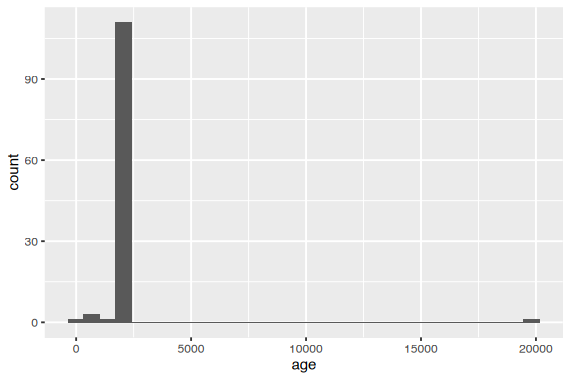
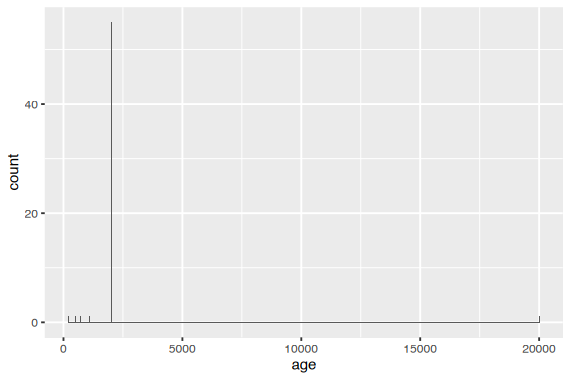
d

diff --git a/docs/contents/cleaning.html b/docs/contents/cleaning.html
@@ -786,12 +786,12 @@ Note
 <h2 class="anchored" data-anchor-id="이상치-발견">이상치 발견</h2>
 <p>Outliers을 찾는 방법은 다양하고 복잡한 테크닉을 요하기도 하는데, 앞으로 점차 익히게 될 것임</p>
 <p>예를 들어, <code>age</code>에 잘못 기입한 경우가 있는데</p>
-<div id="cell-34" class="cell" data-vscode="{&quot;languageId&quot;:&quot;r&quot;}" data-execution_count="89">
+<div id="cell-34" class="cell" data-vscode="{&quot;languageId&quot;:&quot;r&quot;}" data-execution_count="119">
 <div class="sourceCode cell-code" id="cb33"><pre class="sourceCode r code-with-copy"><code class="sourceCode r"><span id="cb33-1"><a href="#cb33-1" aria-hidden="true" tabindex="-1"></a>helping <span class="ot">&lt;-</span> <span class="fu">read_csv</span>(<span class="st">"data/altruism.csv"</span>)</span>
 <span id="cb33-2"><a href="#cb33-2" aria-hidden="true" tabindex="-1"></a></span>
 <span id="cb33-3"><a href="#cb33-3" aria-hidden="true" tabindex="-1"></a>helping <span class="sc">|&gt;</span></span>
 <span id="cb33-4"><a href="#cb33-4" aria-hidden="true" tabindex="-1"></a>    <span class="fu">ggplot</span>(<span class="fu">aes</span>(<span class="at">x =</span> age)) <span class="sc">+</span></span>
-<span id="cb33-5"><a href="#cb33-5" aria-hidden="true" tabindex="-1"></a>    <span class="fu">geom_histogram</span>()</span></code><button title="Copy to Clipboard" class="code-copy-button"><i class="bi"></i></button></pre></div>
+<span id="cb33-5"><a href="#cb33-5" aria-hidden="true" tabindex="-1"></a>    <span class="fu">geom_histogram</span>(<span class="at">binwidth =</span> <span class="dv">1</span>)</span></code><button title="Copy to Clipboard" class="code-copy-button"><i class="bi"></i></button></pre></div>
 <div class="cell-output cell-output-display">
 <div>
 <figure class="figure">
@@ -802,7 +802,7 @@ Note
 </div>
 <p><code>age</code>는 출생년도를 물어봤으나 다른 답을 한 경우들이 있음<br>
 값은 2002 ~ 2004 사이가 정상이므로 <code>filter()</code>를 써서 확인해 볼 수 있음</p>
-<div id="cell-36" class="cell" data-vscode="{&quot;languageId&quot;:&quot;r&quot;}" data-execution_count="90">
+<div id="cell-36" class="cell" data-vscode="{&quot;languageId&quot;:&quot;r&quot;}" data-execution_count="120">
 <div class="sourceCode cell-code" id="cb34"><pre class="sourceCode r code-with-copy"><code class="sourceCode r"><span id="cb34-1"><a href="#cb34-1" aria-hidden="true" tabindex="-1"></a>helping <span class="sc">|&gt;</span></span>
 <span id="cb34-2"><a href="#cb34-2" aria-hidden="true" tabindex="-1"></a>    <span class="fu">filter</span>(age <span class="sc">&lt;</span> <span class="dv">2002</span> <span class="sc">|</span> age <span class="sc">&gt;</span> <span class="dv">2004</span>) <span class="sc">|&gt;</span></span>
 <span id="cb34-3"><a href="#cb34-3" aria-hidden="true" tabindex="-1"></a>    <span class="fu">print</span>()</span></code><button title="Copy to Clipboard" class="code-copy-button"><i class="bi"></i></button></pre></div>
@@ -820,46 +820,122 @@ Note
 # i 1 more variable: emp_q26 &lt;dbl&gt;</code></pre>
 </div>
 </div>
+<p>값을 수정</p>
+<div id="cell-38" class="cell" data-vscode="{&quot;languageId&quot;:&quot;r&quot;}" data-execution_count="121">
+<div class="sourceCode cell-code" id="cb36"><pre class="sourceCode r code-with-copy"><code class="sourceCode r"><span id="cb36-1"><a href="#cb36-1" aria-hidden="true" tabindex="-1"></a><span class="co"># 이상치에 대한 id를 우선 추출</span></span>
+<span id="cb36-2"><a href="#cb36-2" aria-hidden="true" tabindex="-1"></a>ids_anomaly <span class="ot">=</span> helping <span class="sc">|&gt;</span></span>
+<span id="cb36-3"><a href="#cb36-3" aria-hidden="true" tabindex="-1"></a>    <span class="fu">filter</span>(age <span class="sc">&lt;</span> <span class="dv">2002</span> <span class="sc">|</span> age <span class="sc">&gt;</span> <span class="dv">2004</span>) <span class="sc">|&gt;</span></span>
+<span id="cb36-4"><a href="#cb36-4" aria-hidden="true" tabindex="-1"></a>    <span class="fu">pull</span>(id)  <span class="co"># vector로 반환</span></span>
+<span id="cb36-5"><a href="#cb36-5" aria-hidden="true" tabindex="-1"></a>ids_anomaly <span class="sc">|&gt;</span> <span class="fu">print</span>()</span></code><button title="Copy to Clipboard" class="code-copy-button"><i class="bi"></i></button></pre></div>
+<div class="cell-output cell-output-stdout">
+<pre><code>[1]  11  21  43  52  59 108 118</code></pre>
+</div>
+</div>
+<div id="cell-39" class="cell" data-vscode="{&quot;languageId&quot;:&quot;r&quot;}">
+<div class="sourceCode cell-code" id="cb38"><pre class="sourceCode r code-with-copy"><code class="sourceCode r"><span id="cb38-1"><a href="#cb38-1" aria-hidden="true" tabindex="-1"></a><span class="co"># 모두 NA로 변경하는 경우</span></span>
+<span id="cb38-2"><a href="#cb38-2" aria-hidden="true" tabindex="-1"></a>helping <span class="sc">|&gt;</span></span>
+<span id="cb38-3"><a href="#cb38-3" aria-hidden="true" tabindex="-1"></a>    <span class="co"># ifelse(조건, 참일 때 값, 거짓일 때 값)</span></span>
+<span id="cb38-4"><a href="#cb38-4" aria-hidden="true" tabindex="-1"></a>    <span class="fu">mutate</span>(</span>
+<span id="cb38-5"><a href="#cb38-5" aria-hidden="true" tabindex="-1"></a>        <span class="at">age =</span> <span class="fu">ifelse</span>(age <span class="sc">&gt;</span> <span class="dv">2004</span>, <span class="dv">2004</span>, age),</span>
+<span id="cb38-6"><a href="#cb38-6" aria-hidden="true" tabindex="-1"></a>        <span class="at">age =</span> <span class="fu">ifelse</span>(age <span class="sc">&lt;</span> <span class="dv">2002</span>, <span class="cn">NA</span>, age)</span>
+<span id="cb38-7"><a href="#cb38-7" aria-hidden="true" tabindex="-1"></a>        <span class="co"># 대신, age = ifelse(age &gt; 2004, 2004, ifelse(age &lt; 2002, NA, age))</span></span>
+<span id="cb38-8"><a href="#cb38-8" aria-hidden="true" tabindex="-1"></a>        ) <span class="sc">|&gt;</span> </span>
+<span id="cb38-9"><a href="#cb38-9" aria-hidden="true" tabindex="-1"></a>    <span class="fu">filter</span>(id <span class="sc">%in%</span> ids_anomaly) <span class="sc">|&gt;</span> </span>
+<span id="cb38-10"><a href="#cb38-10" aria-hidden="true" tabindex="-1"></a>    <span class="fu">print</span>()</span></code><button title="Copy to Clipboard" class="code-copy-button"><i class="bi"></i></button></pre></div>
+<div class="cell-output cell-output-stdout">
+<pre><code># A tibble: 7 x 12
+     id pho_1 pho_2 pho_3   sex   age emp_q20 emp_q22 emp_q23 emp_q24 emp_q25
+  &lt;dbl&gt; &lt;dbl&gt; &lt;dbl&gt; &lt;dbl&gt; &lt;dbl&gt; &lt;dbl&gt;   &lt;dbl&gt;   &lt;dbl&gt;   &lt;dbl&gt;   &lt;dbl&gt;   &lt;dbl&gt;
+1    11    65    94    56     1    NA      62      86      58      47      62
+2    21    17    10    17     1  2004       0       6       1       0       4
+3    43    90    88    30     1    NA     100      78      62     100      78
+4    52   100    82    85     1    NA      87      83      89     100      88
+5    59    76    86    64     0    NA     100      93      67      94      79
+6   108    75   100    85     1  2004     100     100     100     100      97
+7   118    92    76    94     0    NA      55      51      51      60      53
+# i 1 more variable: emp_q26 &lt;dbl&gt;</code></pre>
+</div>
+</div>
+<div id="cell-40" class="cell" data-vscode="{&quot;languageId&quot;:&quot;r&quot;}" data-execution_count="117">
+<div class="sourceCode cell-code" id="cb40"><pre class="sourceCode r code-with-copy"><code class="sourceCode r"><span id="cb40-1"><a href="#cb40-1" aria-hidden="true" tabindex="-1"></a><span class="co"># 직접 입력하는 방식</span></span>
+<span id="cb40-2"><a href="#cb40-2" aria-hidden="true" tabindex="-1"></a>helping[helping<span class="sc">$</span>id <span class="sc">%in%</span> ids_anomaly, <span class="st">"age"</span>] <span class="sc">|&gt;</span> <span class="fu">print</span>()</span></code><button title="Copy to Clipboard" class="code-copy-button"><i class="bi"></i></button></pre></div>
+<div class="cell-output cell-output-stdout">
+<pre><code># A tibble: 7 x 1
+    age
+  &lt;dbl&gt;
+1   203
+2 20004
+3   507
+4   723
+5   709
+6  2005
+7  1108</code></pre>
+</div>
+</div>
+<div id="cell-41" class="cell" data-vscode="{&quot;languageId&quot;:&quot;r&quot;}" data-execution_count="118">
+<div class="sourceCode cell-code" id="cb42"><pre class="sourceCode r code-with-copy"><code class="sourceCode r"><span id="cb42-1"><a href="#cb42-1" aria-hidden="true" tabindex="-1"></a><span class="co"># 직접 입력하는 방식</span></span>
+<span id="cb42-2"><a href="#cb42-2" aria-hidden="true" tabindex="-1"></a>helping[helping<span class="sc">$</span>id <span class="sc">%in%</span> ids_anomaly, <span class="st">"age"</span>] <span class="ot">&lt;-</span> <span class="fu">c</span>(<span class="cn">NA</span>, <span class="dv">2004</span>, <span class="cn">NA</span>, <span class="cn">NA</span>, <span class="cn">NA</span>, <span class="dv">2005</span>, <span class="cn">NA</span>)</span>
+<span id="cb42-3"><a href="#cb42-3" aria-hidden="true" tabindex="-1"></a>helping <span class="sc">|&gt;</span></span>
+<span id="cb42-4"><a href="#cb42-4" aria-hidden="true" tabindex="-1"></a>    <span class="fu">filter</span>(id <span class="sc">%in%</span> ids_anomaly) <span class="sc">|&gt;</span></span>
+<span id="cb42-5"><a href="#cb42-5" aria-hidden="true" tabindex="-1"></a>    <span class="fu">print</span>()</span></code><button title="Copy to Clipboard" class="code-copy-button"><i class="bi"></i></button></pre></div>
+<div class="cell-output cell-output-stdout">
+<pre><code># A tibble: 7 x 12
+     id pho_1 pho_2 pho_3   sex   age emp_q20 emp_q22 emp_q23 emp_q24 emp_q25
+  &lt;dbl&gt; &lt;dbl&gt; &lt;dbl&gt; &lt;dbl&gt; &lt;dbl&gt; &lt;dbl&gt;   &lt;dbl&gt;   &lt;dbl&gt;   &lt;dbl&gt;   &lt;dbl&gt;   &lt;dbl&gt;
+1    11    65    94    56     1    NA      62      86      58      47      62
+2    21    17    10    17     1  2004       0       6       1       0       4
+3    43    90    88    30     1    NA     100      78      62     100      78
+4    52   100    82    85     1    NA      87      83      89     100      88
+5    59    76    86    64     0    NA     100      93      67      94      79
+6   108    75   100    85     1  2005     100     100     100     100      97
+7   118    92    76    94     0    NA      55      51      51      60      53
+# i 1 more variable: emp_q26 &lt;dbl&gt;</code></pre>
+</div>
+</div>
 </section>
 <section id="샘플-r-script" class="level2">
 <h2 class="anchored" data-anchor-id="샘플-r-script">샘플 R script</h2>
-<div id="cell-38" class="cell" data-vscode="{&quot;languageId&quot;:&quot;r&quot;}" data-execution_count="91">
-<div class="sourceCode cell-code" id="cb36"><pre class="sourceCode r code-with-copy"><code class="sourceCode r"><span id="cb36-1"><a href="#cb36-1" aria-hidden="true" tabindex="-1"></a><span class="fu">library</span>(tidyverse)</span>
-<span id="cb36-2"><a href="#cb36-2" aria-hidden="true" tabindex="-1"></a></span>
-<span id="cb36-3"><a href="#cb36-3" aria-hidden="true" tabindex="-1"></a><span class="co"># import data</span></span>
-<span id="cb36-4"><a href="#cb36-4" aria-hidden="true" tabindex="-1"></a>helping <span class="ot">&lt;-</span> <span class="fu">read_csv</span>(<span class="st">"data/altruism.csv"</span>)</span>
-<span id="cb36-5"><a href="#cb36-5" aria-hidden="true" tabindex="-1"></a></span>
-<span id="cb36-6"><a href="#cb36-6" aria-hidden="true" tabindex="-1"></a><span class="co"># rename</span></span>
-<span id="cb36-7"><a href="#cb36-7" aria-hidden="true" tabindex="-1"></a>helping <span class="ot">&lt;-</span> helping <span class="sc">|&gt;</span></span>
-<span id="cb36-8"><a href="#cb36-8" aria-hidden="true" tabindex="-1"></a>  <span class="fu">rename</span>(<span class="at">ph1 =</span> pho_1, <span class="at">ph2 =</span> pho_2, <span class="at">ph3 =</span> pho_3) </span>
-<span id="cb36-9"><a href="#cb36-9" aria-hidden="true" tabindex="-1"></a></span>
-<span id="cb36-10"><a href="#cb36-10" aria-hidden="true" tabindex="-1"></a><span class="co"># delete reponses</span></span>
-<span id="cb36-11"><a href="#cb36-11" aria-hidden="true" tabindex="-1"></a>helping <span class="ot">&lt;-</span> helping <span class="sc">|&gt;</span></span>
-<span id="cb36-12"><a href="#cb36-12" aria-hidden="true" tabindex="-1"></a>  <span class="fu">filter</span>(<span class="sc">!</span>id <span class="sc">==</span> <span class="dv">5</span>)</span>
-<span id="cb36-13"><a href="#cb36-13" aria-hidden="true" tabindex="-1"></a></span>
-<span id="cb36-14"><a href="#cb36-14" aria-hidden="true" tabindex="-1"></a><span class="co"># scoring</span></span>
-<span id="cb36-15"><a href="#cb36-15" aria-hidden="true" tabindex="-1"></a>helping[<span class="st">"phone"</span>] <span class="ot">&lt;-</span> helping <span class="sc">|&gt;</span></span>
-<span id="cb36-16"><a href="#cb36-16" aria-hidden="true" tabindex="-1"></a>  <span class="fu">select</span>(ph1<span class="sc">:</span>ph3) <span class="sc">|&gt;</span></span>
-<span id="cb36-17"><a href="#cb36-17" aria-hidden="true" tabindex="-1"></a>  <span class="fu">rowMeans</span>(<span class="at">na.rm =</span> <span class="cn">TRUE</span>)</span>
-<span id="cb36-18"><a href="#cb36-18" aria-hidden="true" tabindex="-1"></a></span>
-<span id="cb36-19"><a href="#cb36-19" aria-hidden="true" tabindex="-1"></a>helping[<span class="st">"persp"</span>] <span class="ot">&lt;-</span> helping <span class="sc">|&gt;</span> </span>
-<span id="cb36-20"><a href="#cb36-20" aria-hidden="true" tabindex="-1"></a>  <span class="fu">select</span>(emp_q20, emp_q22, emp_q24<span class="sc">:</span>emp_q26) <span class="sc">|&gt;</span></span>
-<span id="cb36-21"><a href="#cb36-21" aria-hidden="true" tabindex="-1"></a>  <span class="fu">rowMeans</span>(<span class="at">na.rm =</span> <span class="cn">TRUE</span>)</span>
-<span id="cb36-22"><a href="#cb36-22" aria-hidden="true" tabindex="-1"></a></span>
-<span id="cb36-23"><a href="#cb36-23" aria-hidden="true" tabindex="-1"></a><span class="co"># factors and etc.</span></span>
-<span id="cb36-24"><a href="#cb36-24" aria-hidden="true" tabindex="-1"></a>helping <span class="ot">&lt;-</span> helping <span class="sc">|&gt;</span></span>
-<span id="cb36-25"><a href="#cb36-25" aria-hidden="true" tabindex="-1"></a>  <span class="fu">mutate</span>(</span>
-<span id="cb36-26"><a href="#cb36-26" aria-hidden="true" tabindex="-1"></a>    <span class="at">sex =</span> <span class="fu">factor</span>(sex, <span class="at">levels =</span> <span class="fu">c</span>(<span class="dv">0</span>, <span class="dv">1</span>), <span class="at">labels =</span> <span class="fu">c</span>(<span class="st">"male"</span>, <span class="st">"female"</span>)),</span>
-<span id="cb36-27"><a href="#cb36-27" aria-hidden="true" tabindex="-1"></a>    <span class="at">age =</span> <span class="dv">2023</span> <span class="sc">-</span> age</span>
-<span id="cb36-28"><a href="#cb36-28" aria-hidden="true" tabindex="-1"></a>  )</span>
-<span id="cb36-29"><a href="#cb36-29" aria-hidden="true" tabindex="-1"></a></span>
-<span id="cb36-30"><a href="#cb36-30" aria-hidden="true" tabindex="-1"></a><span class="co"># select variables</span></span>
-<span id="cb36-31"><a href="#cb36-31" aria-hidden="true" tabindex="-1"></a>helping <span class="ot">&lt;-</span> helping <span class="sc">|&gt;</span></span>
-<span id="cb36-32"><a href="#cb36-32" aria-hidden="true" tabindex="-1"></a>  <span class="fu">select</span>(id, sex, age, phone, persp)</span></code><button title="Copy to Clipboard" class="code-copy-button"><i class="bi"></i></button></pre></div>
+<div id="cell-43" class="cell" data-vscode="{&quot;languageId&quot;:&quot;r&quot;}" data-execution_count="123">
+<div class="sourceCode cell-code" id="cb44"><pre class="sourceCode r code-with-copy"><code class="sourceCode r"><span id="cb44-1"><a href="#cb44-1" aria-hidden="true" tabindex="-1"></a><span class="fu">library</span>(tidyverse)</span>
+<span id="cb44-2"><a href="#cb44-2" aria-hidden="true" tabindex="-1"></a></span>
+<span id="cb44-3"><a href="#cb44-3" aria-hidden="true" tabindex="-1"></a><span class="co"># import data</span></span>
+<span id="cb44-4"><a href="#cb44-4" aria-hidden="true" tabindex="-1"></a>helping <span class="ot">&lt;-</span> <span class="fu">read_csv</span>(<span class="st">"data/altruism.csv"</span>)</span>
+<span id="cb44-5"><a href="#cb44-5" aria-hidden="true" tabindex="-1"></a></span>
+<span id="cb44-6"><a href="#cb44-6" aria-hidden="true" tabindex="-1"></a><span class="co"># rename</span></span>
+<span id="cb44-7"><a href="#cb44-7" aria-hidden="true" tabindex="-1"></a>helping <span class="ot">&lt;-</span> helping <span class="sc">|&gt;</span></span>
+<span id="cb44-8"><a href="#cb44-8" aria-hidden="true" tabindex="-1"></a>  <span class="fu">rename</span>(<span class="at">ph1 =</span> pho_1, <span class="at">ph2 =</span> pho_2, <span class="at">ph3 =</span> pho_3) </span>
+<span id="cb44-9"><a href="#cb44-9" aria-hidden="true" tabindex="-1"></a></span>
+<span id="cb44-10"><a href="#cb44-10" aria-hidden="true" tabindex="-1"></a><span class="co"># delete reponses</span></span>
+<span id="cb44-11"><a href="#cb44-11" aria-hidden="true" tabindex="-1"></a>helping <span class="ot">&lt;-</span> helping <span class="sc">|&gt;</span></span>
+<span id="cb44-12"><a href="#cb44-12" aria-hidden="true" tabindex="-1"></a>  <span class="fu">filter</span>(<span class="sc">!</span>id <span class="sc">==</span> <span class="dv">5</span>)</span>
+<span id="cb44-13"><a href="#cb44-13" aria-hidden="true" tabindex="-1"></a></span>
+<span id="cb44-14"><a href="#cb44-14" aria-hidden="true" tabindex="-1"></a><span class="co"># scoring</span></span>
+<span id="cb44-15"><a href="#cb44-15" aria-hidden="true" tabindex="-1"></a>helping[<span class="st">"phone"</span>] <span class="ot">&lt;-</span> helping <span class="sc">|&gt;</span></span>
+<span id="cb44-16"><a href="#cb44-16" aria-hidden="true" tabindex="-1"></a>  <span class="fu">select</span>(ph1<span class="sc">:</span>ph3) <span class="sc">|&gt;</span></span>
+<span id="cb44-17"><a href="#cb44-17" aria-hidden="true" tabindex="-1"></a>  <span class="fu">rowMeans</span>(<span class="at">na.rm =</span> <span class="cn">TRUE</span>)</span>
+<span id="cb44-18"><a href="#cb44-18" aria-hidden="true" tabindex="-1"></a></span>
+<span id="cb44-19"><a href="#cb44-19" aria-hidden="true" tabindex="-1"></a>helping[<span class="st">"persp"</span>] <span class="ot">&lt;-</span> helping <span class="sc">|&gt;</span> </span>
+<span id="cb44-20"><a href="#cb44-20" aria-hidden="true" tabindex="-1"></a>  <span class="fu">select</span>(emp_q20, emp_q22, emp_q24<span class="sc">:</span>emp_q26) <span class="sc">|&gt;</span></span>
+<span id="cb44-21"><a href="#cb44-21" aria-hidden="true" tabindex="-1"></a>  <span class="fu">rowMeans</span>(<span class="at">na.rm =</span> <span class="cn">TRUE</span>)</span>
+<span id="cb44-22"><a href="#cb44-22" aria-hidden="true" tabindex="-1"></a></span>
+<span id="cb44-23"><a href="#cb44-23" aria-hidden="true" tabindex="-1"></a><span class="co"># substitute anolamies</span></span>
+<span id="cb44-24"><a href="#cb44-24" aria-hidden="true" tabindex="-1"></a>helping <span class="ot">&lt;-</span> helping <span class="sc">|&gt;</span></span>
+<span id="cb44-25"><a href="#cb44-25" aria-hidden="true" tabindex="-1"></a>  <span class="fu">mutate</span>(<span class="at">age =</span> <span class="fu">ifelse</span>(age <span class="sc">&gt;</span> <span class="dv">2004</span>, <span class="dv">2004</span>, <span class="fu">ifelse</span>(age <span class="sc">&lt;</span> <span class="dv">2002</span>, <span class="cn">NA</span>, age)))</span>
+<span id="cb44-26"><a href="#cb44-26" aria-hidden="true" tabindex="-1"></a></span>
+<span id="cb44-27"><a href="#cb44-27" aria-hidden="true" tabindex="-1"></a><span class="co"># factors and etc.</span></span>
+<span id="cb44-28"><a href="#cb44-28" aria-hidden="true" tabindex="-1"></a>helping <span class="ot">&lt;-</span> helping <span class="sc">|&gt;</span></span>
+<span id="cb44-29"><a href="#cb44-29" aria-hidden="true" tabindex="-1"></a>  <span class="fu">mutate</span>(</span>
+<span id="cb44-30"><a href="#cb44-30" aria-hidden="true" tabindex="-1"></a>    <span class="at">sex =</span> <span class="fu">factor</span>(sex, <span class="at">levels =</span> <span class="fu">c</span>(<span class="dv">0</span>, <span class="dv">1</span>), <span class="at">labels =</span> <span class="fu">c</span>(<span class="st">"male"</span>, <span class="st">"female"</span>)),</span>
+<span id="cb44-31"><a href="#cb44-31" aria-hidden="true" tabindex="-1"></a>    <span class="at">age =</span> <span class="dv">2023</span> <span class="sc">-</span> age</span>
+<span id="cb44-32"><a href="#cb44-32" aria-hidden="true" tabindex="-1"></a>  )</span>
+<span id="cb44-33"><a href="#cb44-33" aria-hidden="true" tabindex="-1"></a></span>
+<span id="cb44-34"><a href="#cb44-34" aria-hidden="true" tabindex="-1"></a><span class="co"># select variables</span></span>
+<span id="cb44-35"><a href="#cb44-35" aria-hidden="true" tabindex="-1"></a>helping <span class="ot">&lt;-</span> helping <span class="sc">|&gt;</span></span>
+<span id="cb44-36"><a href="#cb44-36" aria-hidden="true" tabindex="-1"></a>  <span class="fu">select</span>(id, sex, age, phone, persp)</span></code><button title="Copy to Clipboard" class="code-copy-button"><i class="bi"></i></button></pre></div>
 </div>
 <p>정리된 파일로 분석 시작!</p>
-<div id="cell-40" class="cell" data-vscode="{&quot;languageId&quot;:&quot;r&quot;}" data-execution_count="93">
-<div class="sourceCode cell-code" id="cb37"><pre class="sourceCode r code-with-copy"><code class="sourceCode r"><span id="cb37-1"><a href="#cb37-1" aria-hidden="true" tabindex="-1"></a>helping <span class="sc">|&gt;</span> <span class="fu">print</span>()</span></code><button title="Copy to Clipboard" class="code-copy-button"><i class="bi"></i></button></pre></div>
+<div id="cell-45" class="cell" data-vscode="{&quot;languageId&quot;:&quot;r&quot;}" data-execution_count="127">
+<div class="sourceCode cell-code" id="cb45"><pre class="sourceCode r code-with-copy"><code class="sourceCode r"><span id="cb45-1"><a href="#cb45-1" aria-hidden="true" tabindex="-1"></a>helping <span class="sc">|&gt;</span> <span class="fu">print</span>()</span></code><button title="Copy to Clipboard" class="code-copy-button"><i class="bi"></i></button></pre></div>
 <div class="cell-output cell-output-stdout">
 <pre><code># A tibble: 119 x 5
      id sex      age phone persp
